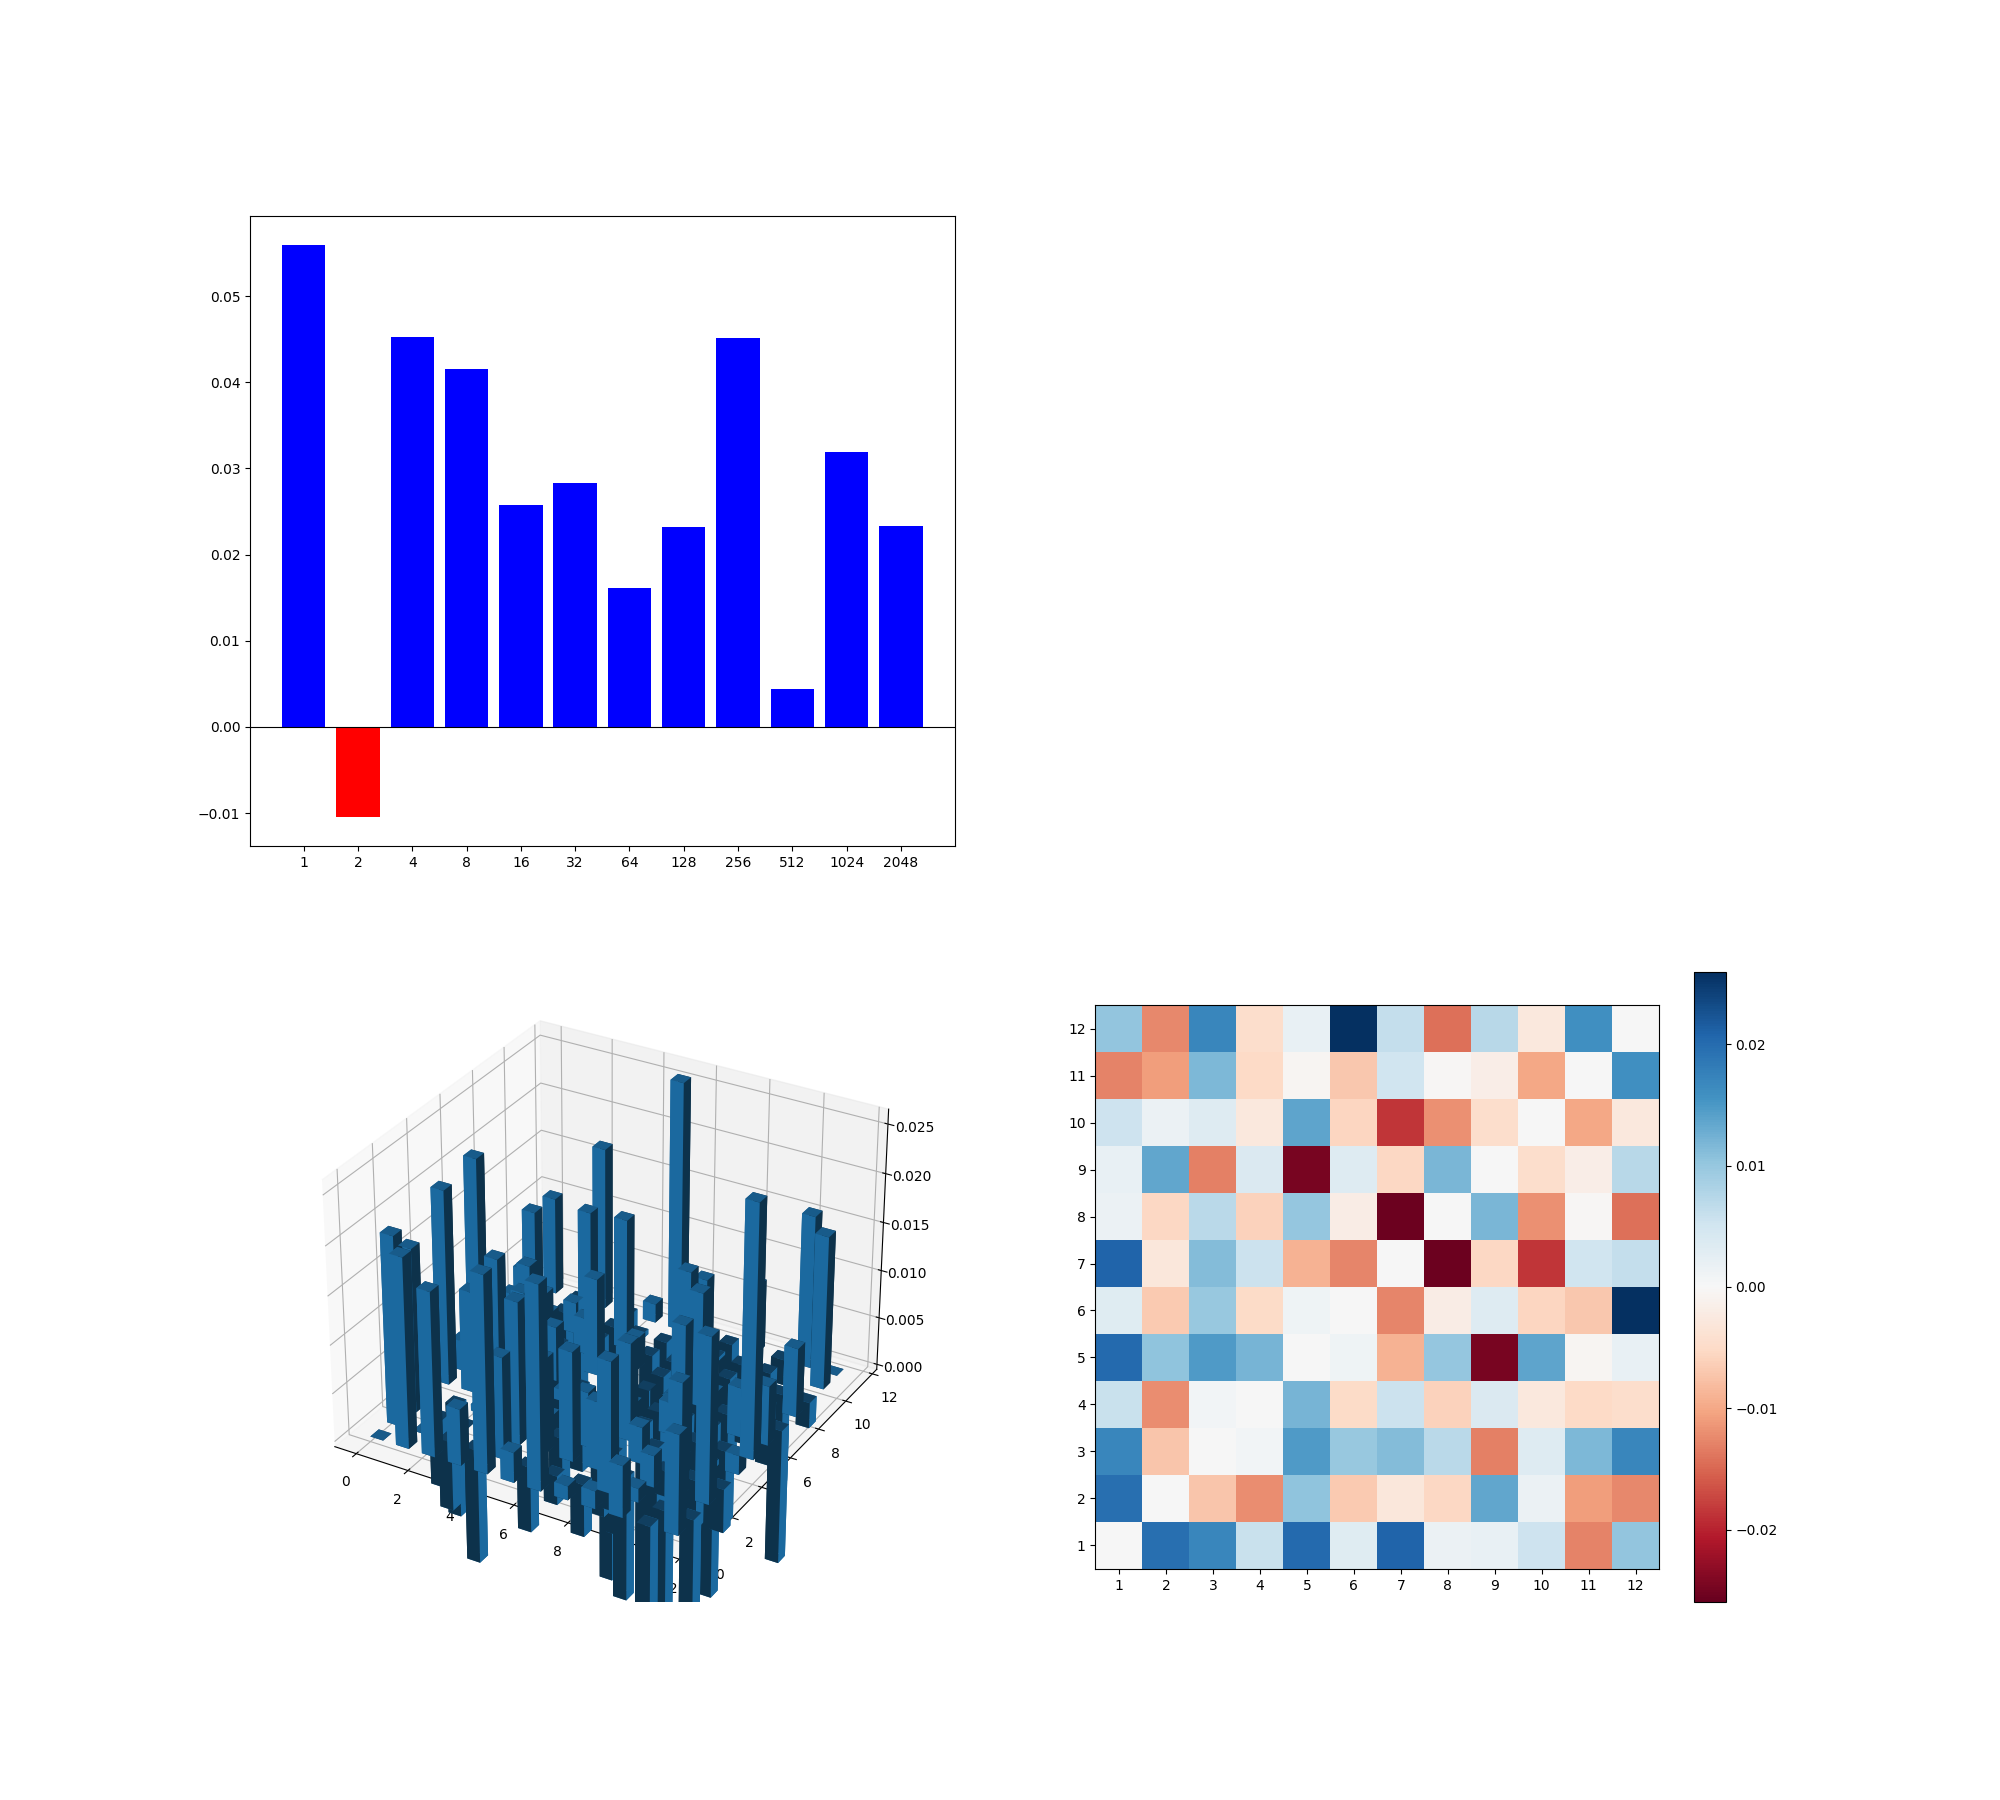
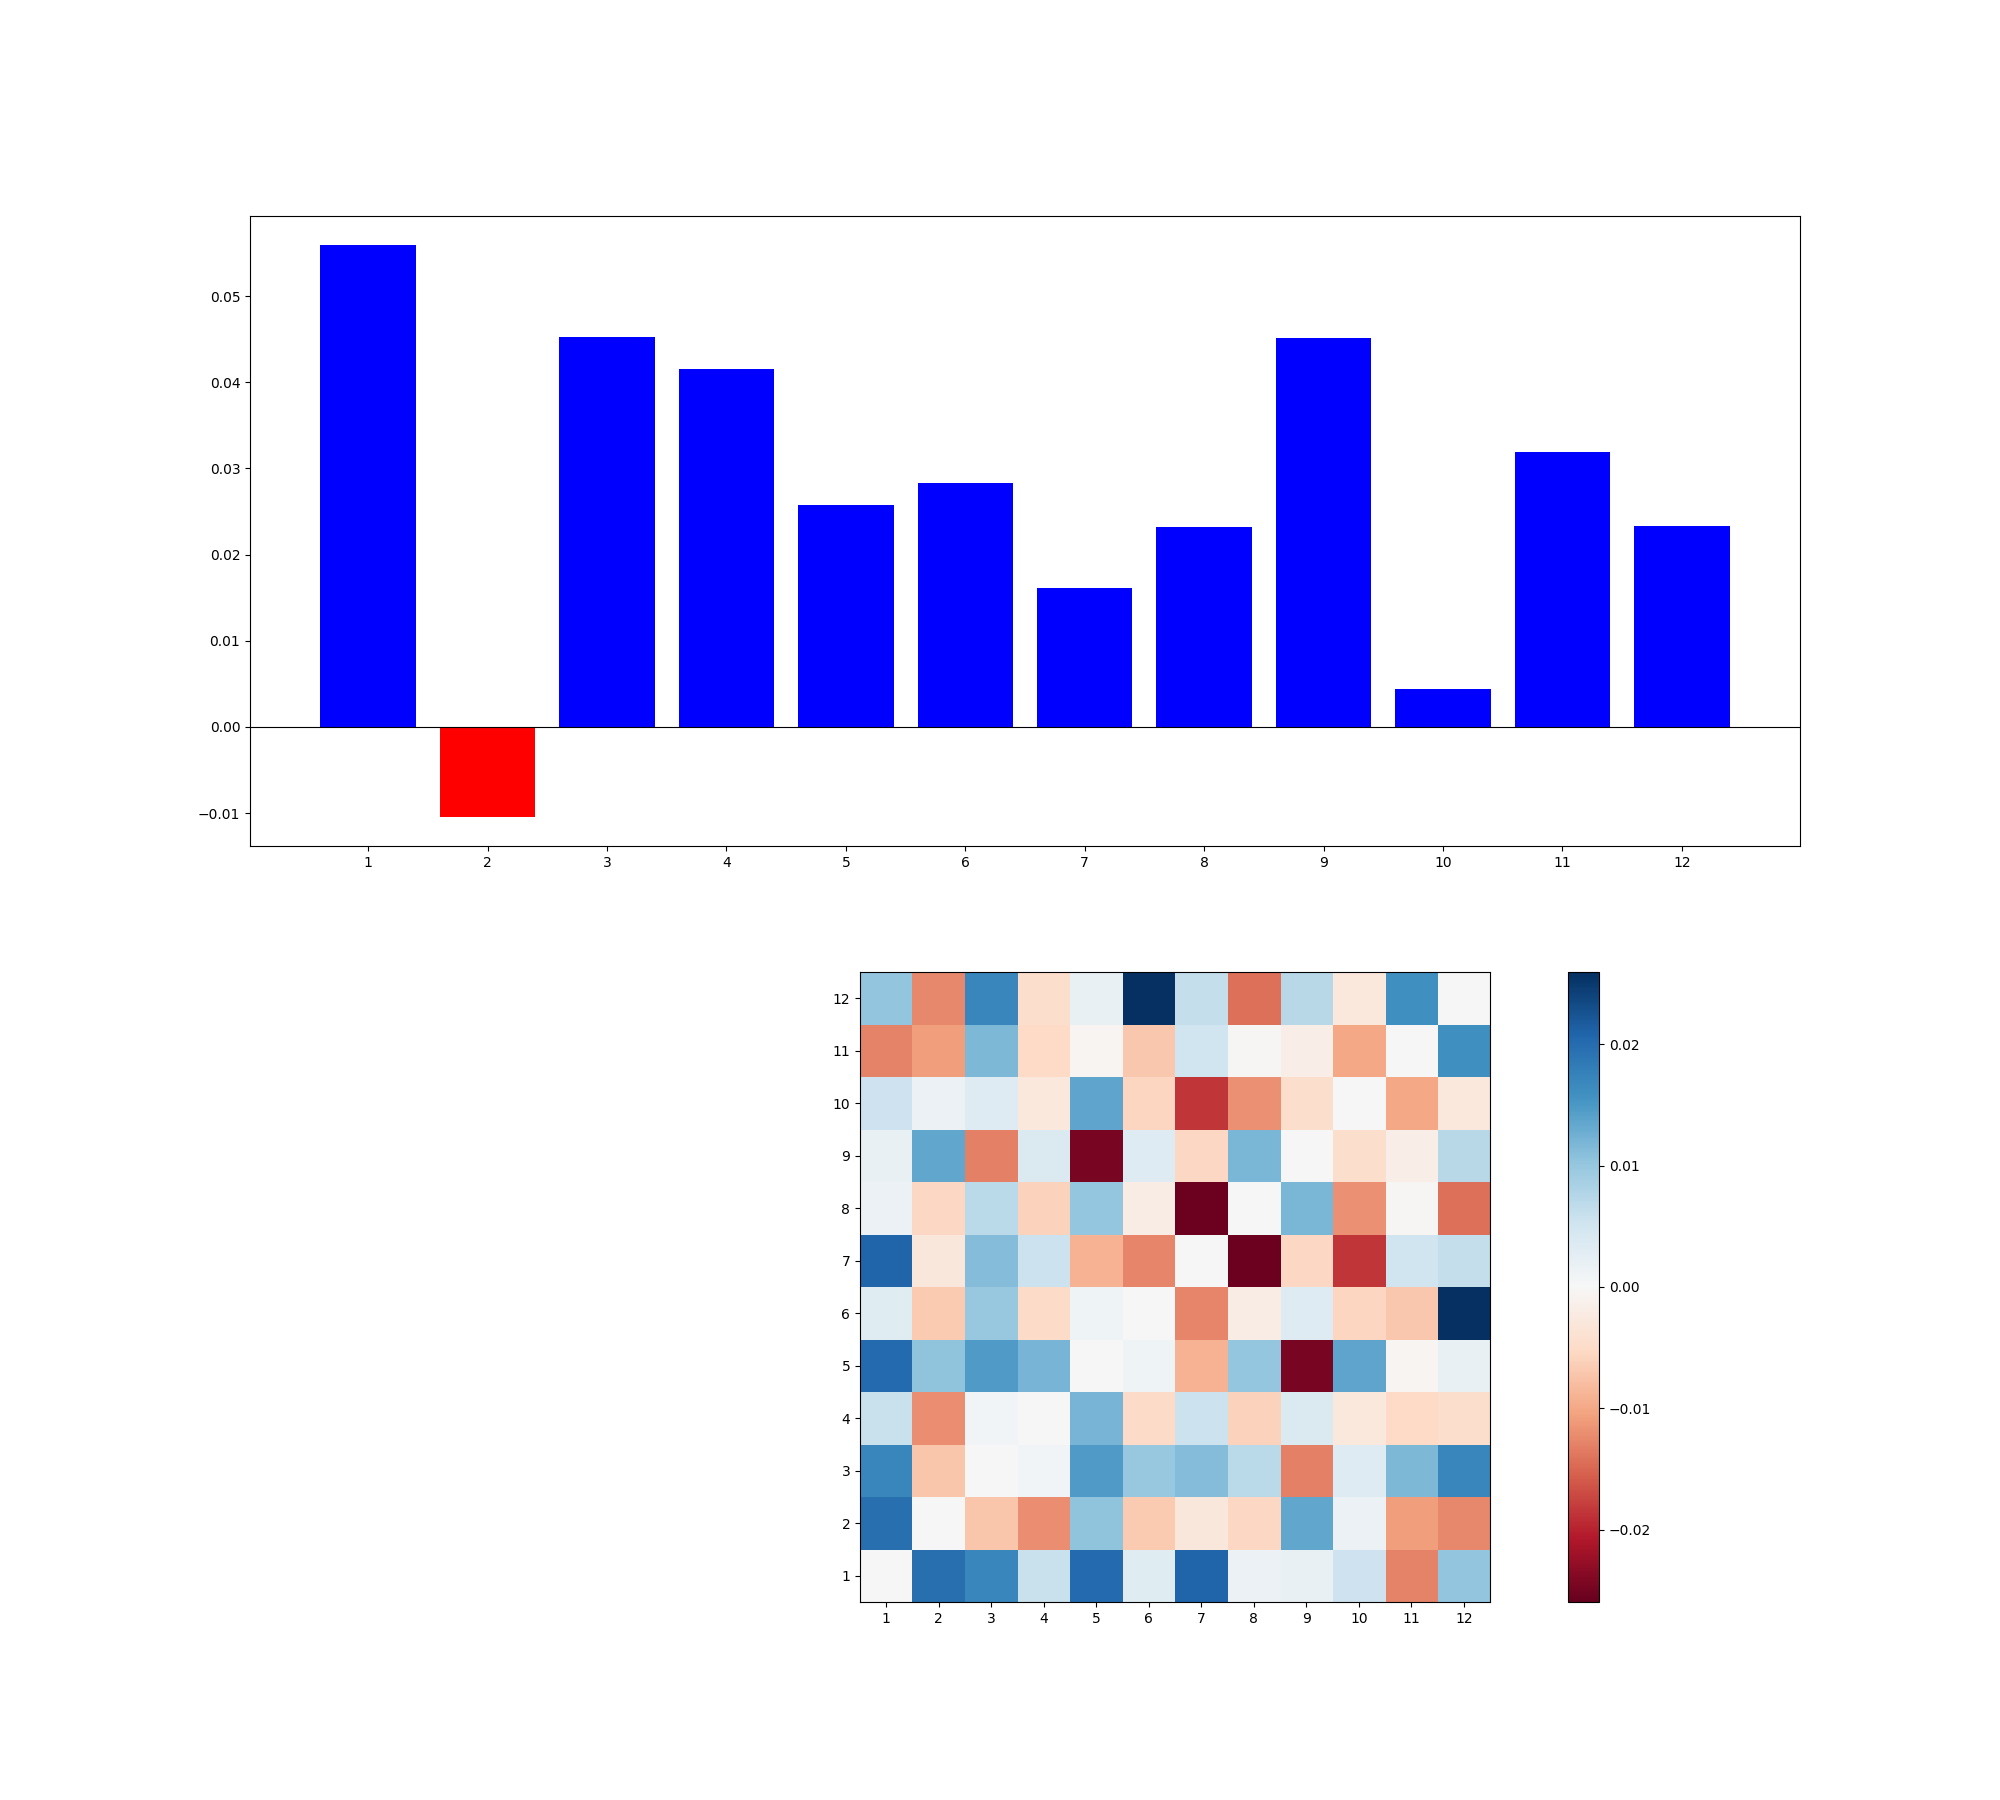
calculated high qubit FC detail

Changed region(s): [[0.186, 0.5289, 0.868, 0.9022], [0.124, 0.1244, 0.868, 0.4667]]

diff --git a/plotFCDetail_highQubit.py b/plotFCDetail_highQubit.py
@@ -103,18 +103,6 @@ def plotBar(ax, categories, values):
     # plt.show()
 
 
-# def plot3D(ax, n, detail):
-#     _x = np.arange(n)
-#     _y = np.arange(n)
-#     _xx, _yy = np.meshgrid(_x, _y)
-#     x, y = _xx.ravel(), _yy.ravel()
-#     z = np.zeros_like(x)
-#     dx = dy = np.ones_like(z) * 0.5
-#     dz = [
-#         2**x[i] + 2**y[i] if x[i] != y[i] else 0 for i in range(len(x))
-#     ]
-#     ax.bar3d(x, y, z, dx, dy, dz)
-#     # plt.show()
 def plot3D(ax, n, detail):
     _x = np.arange(n).tolist()
     _y = np.arange(n).tolist()
@@ -125,36 +113,6 @@ def plot3D(ax, n, detail):
     dz = [2**x[i] + 2**y[i] if x[i] != y[i] else 0 for i in range(len(x))]
     ax.bar3d(x, y, z, dx, dy, dz)
 
-
-# def plotHeatmap(ax, n, detail):
-#     _x = np.arange(n)
-#     _y = np.arange(n)
-#     _xx, _yy = np.meshgrid(_x, _y)
-#     x, y = _xx.ravel(), _yy.ravel()
-#     z = np.zeros_like(x)
-#     dx = dy = np.ones_like(z) * 0.5
-#     dz = [
-#         detail[2**x[i] + 2**y[i]] if x[i] != y[i] else 0 for i in range(len(x))
-#     ]
-#     square_list = []
-
-#     for i in range(0, len(dz), n):
-#         square_list.append(dz[i:i + n])
-#     x_labels = [i for i in range(0, n)]
-#     # y_labels = [str(i) for i in range(1, n + 1)]
-#     ax.set_xticks(x_labels)
-#     ax.set_yticks(x_labels)
-#     x_labels = [str(i) for i in range(1, n + 1)]
-#     ax.set_xticklabels(x_labels)
-#     ax.set_yticklabels(x_labels)
-
-#     im = ax.imshow(square_list,
-#                    cmap='RdBu',
-#                    origin='lower',
-#                    vmin=-max(max(dz), -min(dz)),
-#                    vmax=max(max(dz), -min(dz)))
-
-#     fig.colorbar(im, ax=ax)  # 在指定的axes上添加colorbar
 
 
 def plotHeatmap(ax, n, detail):
@@ -191,50 +149,53 @@ def plotHeatmap(ax, n, detail):
 def hamming_weight(n):
     return bin(n).count('1')
 
+for n in tqdm(range(16,51,2),desc='Processing qubit', leave=True):
+    # n = 48
+    # print(f"processing n = {n}")
+    # n = int(sys.argv[1])
+    m = 500000
+    D = 10
+    sLength = 2**(n)
 
-n = 48
-# n = int(sys.argv[1])
-m = 500000
-D = 10
-sLength = 2**(n)
+    sBarList = generate_bitstrings(n)
 
-sBarList = generate_bitstrings(n)
+    for filnum in tqdm(range(1, D + 1), desc='Processing circuit', leave=False):
+        detail = dict()
 
-for filnum in tqdm(range(1, D + 1), desc='Processing circuit'):
-    detail = dict()
+        # filename = "bit_strings.txt"
 
-    # filename = "bit_strings.txt"
+        filename = "Full Circuit\\e0_" + str(n) + "\\measurements_n" + str(n) + "_m14_s" + str(
+            -1 + filnum) + "_e0_pEFGH.txt"
 
-    filename = "Full Circuit\\e0_" + str(n) + "\\measurements_n" + str(n) + "_m14_s" + str(
-        -1 + filnum) + "_e0_pEFGH.txt"
+        Z_file = [0 for i in range(n + 1)]
+        f = open(filename, "r")
+        fileListLines = f.readlines()
+        fileList = cp.array([bin_to_int(i) for i in fileListLines])
+        for sBar_num in range(0, len(sBarList)):
+            sBar = sBarList[sBar_num]
+            templ = []
+            # print(len(sBar))
+            for s_num in tqdm(range(len(sBar)), leave=False):
+                s = sBar[s_num]
+                temp = cp.bitwise_and(s, fileList)
+                temp = temp.get()
+                temp = hamming_weight(temp)
+                temp = (-1)**(temp)
+                detail[int(s)] = int(np.sum(temp)) / m
+        # print(detail)
 
-    Z_file = [0 for i in range(n + 1)]
-    f = open(filename, "r")
-    fileListLines = f.readlines()
-    fileList = cp.array([bin_to_int(i) for i in fileListLines])
-    for sBar_num in range(0, len(sBarList)):
-        sBar = sBarList[sBar_num]
-        templ = []
-        # print(len(sBar))
-        for s_num in tqdm(range(len(sBar))):
-            s = sBar[s_num]
-            temp = cp.bitwise_and(s, fileList)
-            temp = temp.get()
-            temp = hamming_weight(temp)
-            temp = (-1)**(temp)
-            detail[int(s)] = int(np.sum(temp)) / m
-    print(detail)
+        fig = plt.figure(figsize=(20, 18))
+        ax1 = fig.add_subplot(211)
+        plotBar(ax1, [str(int(math.log(i, 2) + 1)) for i in sBarList[0]],
+                [detail[int(i)] for i in sBarList[0]])
 
-    fig = plt.figure(figsize=(20, 18))
-    ax1 = fig.add_subplot(211)
-    plotBar(ax1, [str(int(math.log(i, 2) + 1)) for i in sBarList[0]],
-            [detail[int(i)] for i in sBarList[0]])
+        # ax2 = fig.add_subplot(223, projection='3d')
+        # plot3D(ax2, n, detail)
 
-    # ax2 = fig.add_subplot(223, projection='3d')
-    # plot3D(ax2, n, detail)
-
-    ax3 = fig.add_subplot(212)
-    plotHeatmap(ax3, n, detail)
-    # plt.tight_layout()
-    # plt.show()
-    plt.savefig("Full Circuit\\e0_" + str(n) + "\\s" + str(filnum - 1))
+        ax3 = fig.add_subplot(212)
+        plotHeatmap(ax3, n, detail)
+        # plt.tight_layout()
+        # plt.show()
+        plt.savefig("Full Circuit\\e0_" + str(n) + "\\s" + str(filnum - 1))
+        plt.close()
+        plt.close(fig)
